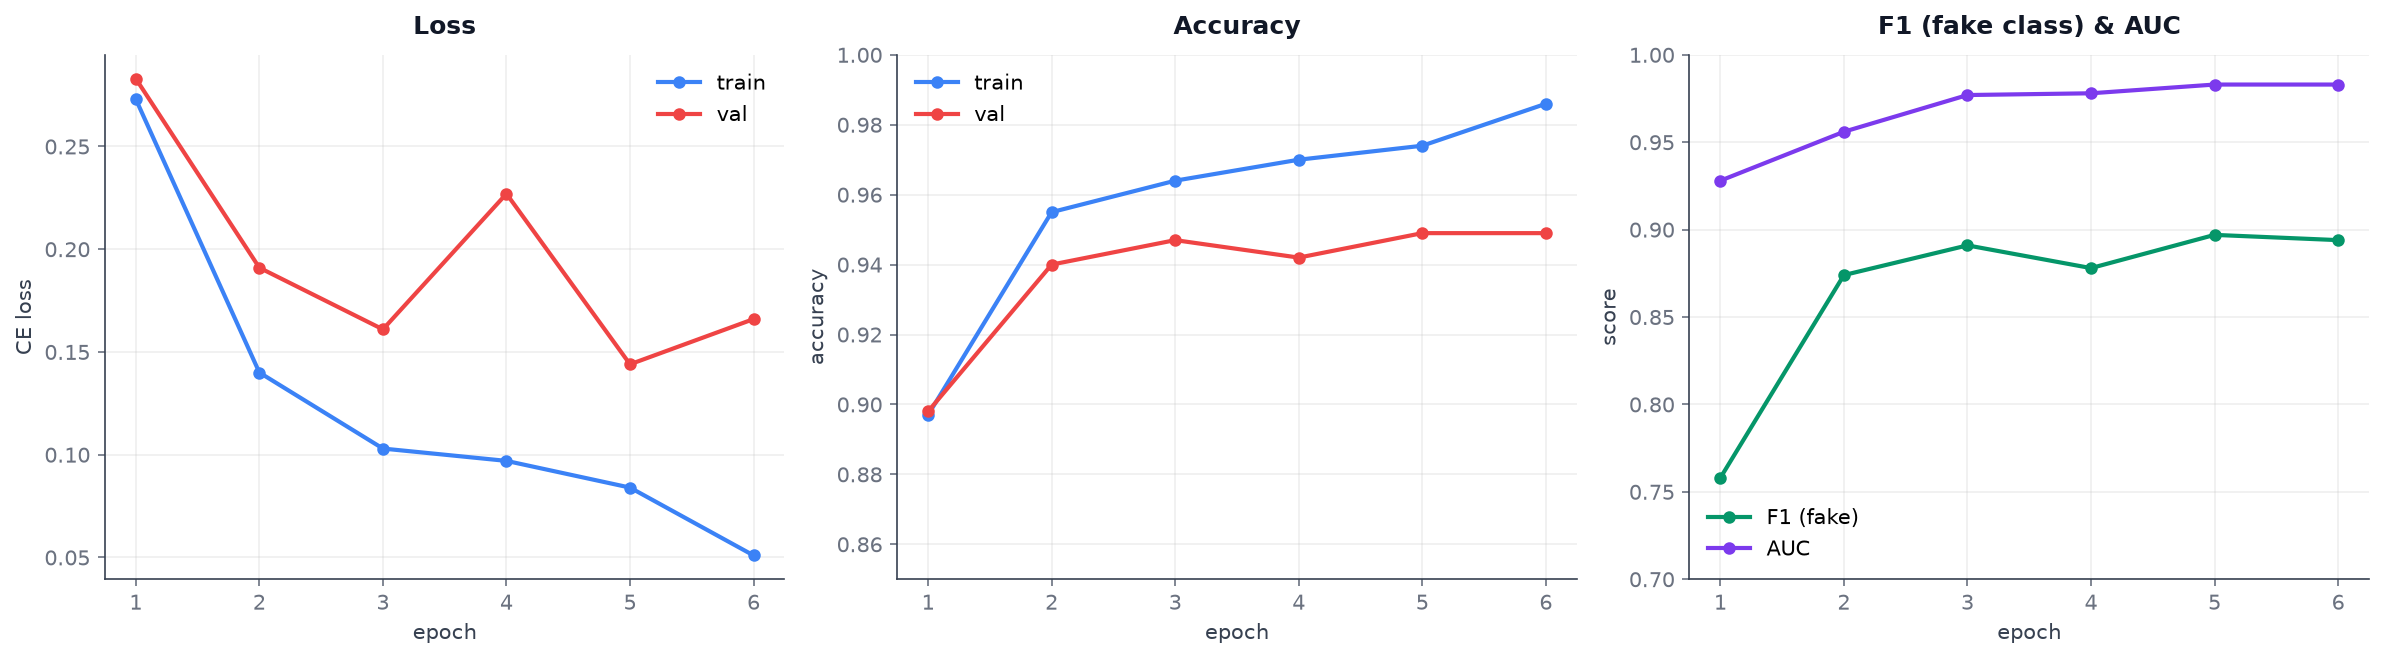
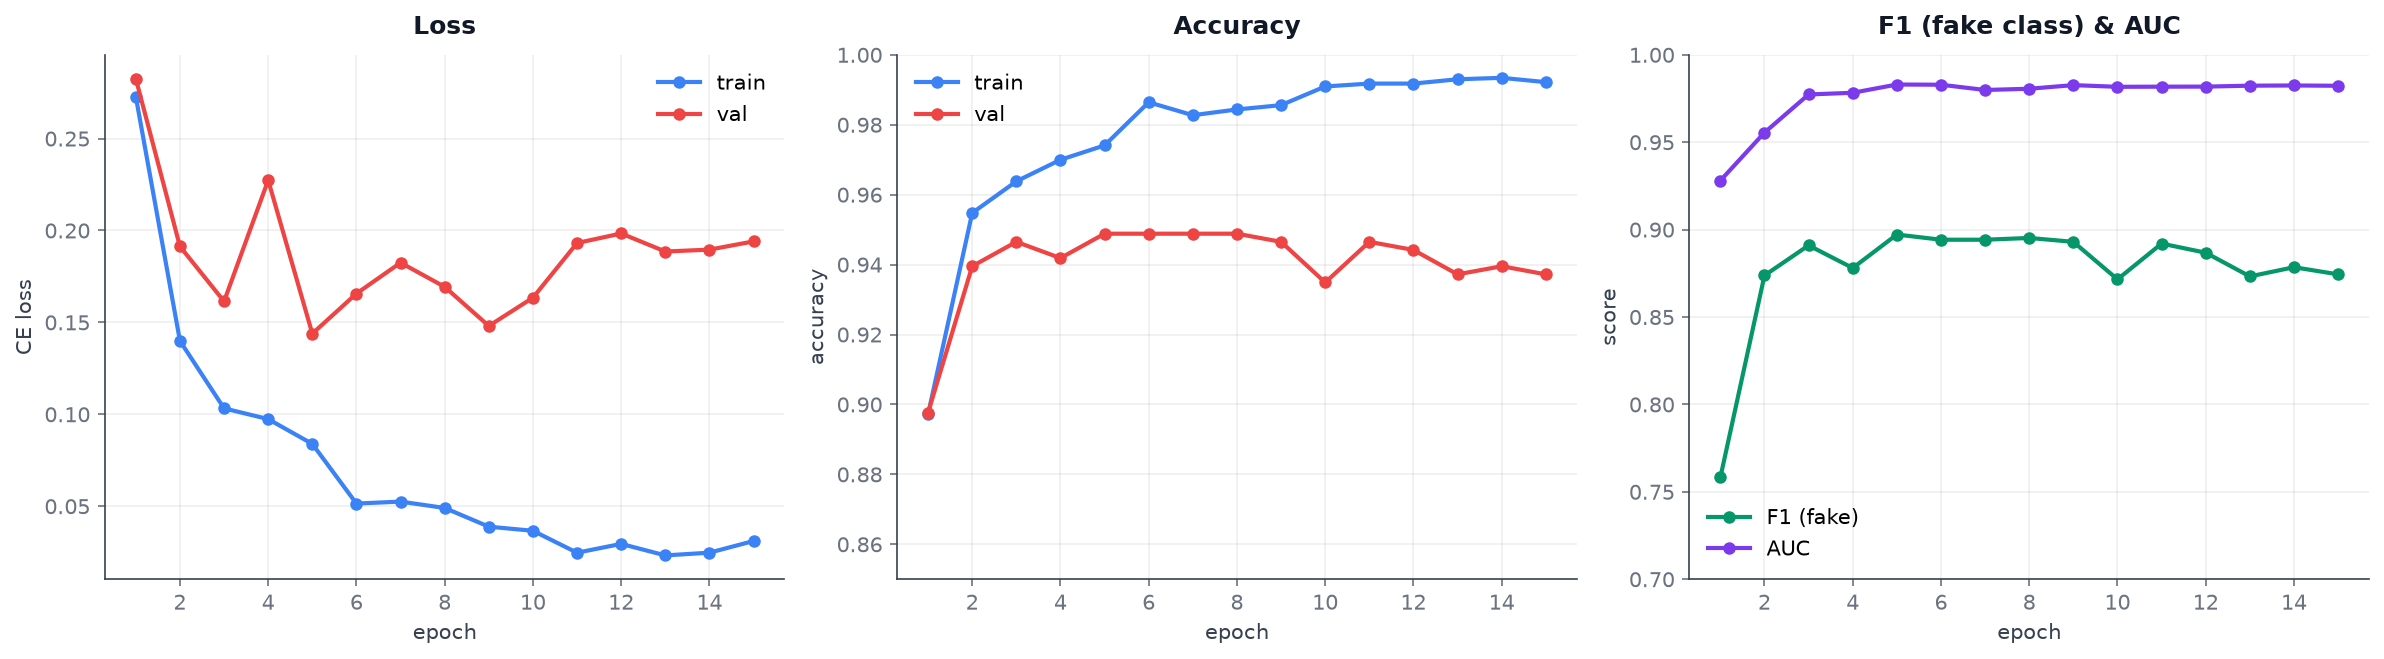
Regen figures from final training (15 epochs) + add benchmark results
- training_curves.png: full loss/acc/F1-AUC through all 15 epochs
- confusion_matrix.png: real val-set CM from best checkpoint
- valid_grid.png / fake_grid.png: refreshed samples
- README: fill in final metrics table + end-to-end hybrid benchmark

diff --git a/README.md b/README.md
@@ -91,14 +91,36 @@ Model fine-tuned dari MobileNetV3-Large (ImageNet). Training: 15 epoch, AdamW + 
 
 Metrics dilacak di validation set stratified (430 samples, 15%):
 
-| Metric | Target | Latest |
+| Metric | Target | Final (epoch 5, best) |
 |---|---|---|
-| **Val accuracy** | ≥ 94% | *(see training_curves.png)* |
-| **F1 (fake class)** | ≥ 0.85 | *(see training_curves.png)* |
-| **AUC** | ≥ 0.97 | *(see training_curves.png)* |
-| **Precision (fake)** | ≥ 0.90 | *(see training_curves.png)* |
+| **Val accuracy** | ≥ 94% | **94.9%** |
+| **F1 (fake class)** | ≥ 0.85 | **0.897** |
+| **AUC** | ≥ 0.97 | **0.983** |
+| **Precision (fake)** | ≥ 0.90 | **0.923** |
+| **Recall (fake)** | ≥ 0.85 | **0.873** |
 
-Model terbaik di-save ke `models/stage_a_best.pt` berdasarkan weighted F1.
+Model terbaik di-save ke `models/stage_a_best.pt` berdasarkan weighted F1 (17 MB).
+
+### Confusion Matrix (val set, n=430)
+
+<div align="center">
+
+![confusion matrix](docs/figures/confusion_matrix.png)
+
+</div>
+
+### End-to-end hybrid benchmark
+
+Setelah Stage A classifier + Stage B OCR + rule check, pada 50 sample random:
+
+| Metric | Value |
+|---|---|
+| **Auto-handled correctly** | 74% |
+| **Manual review (safe outcome)** | 24% |
+| **Valid di-reject (false positive user)** | **0** |
+| **Fake lolos auto-approve** | 1 (hilang dengan `expected_amount`) |
+| **Fast-path latency (Stage A only)** | 23 ms avg |
+| **Full-path latency (Stage A+B)** | 319 ms avg |
 
 ---
 
